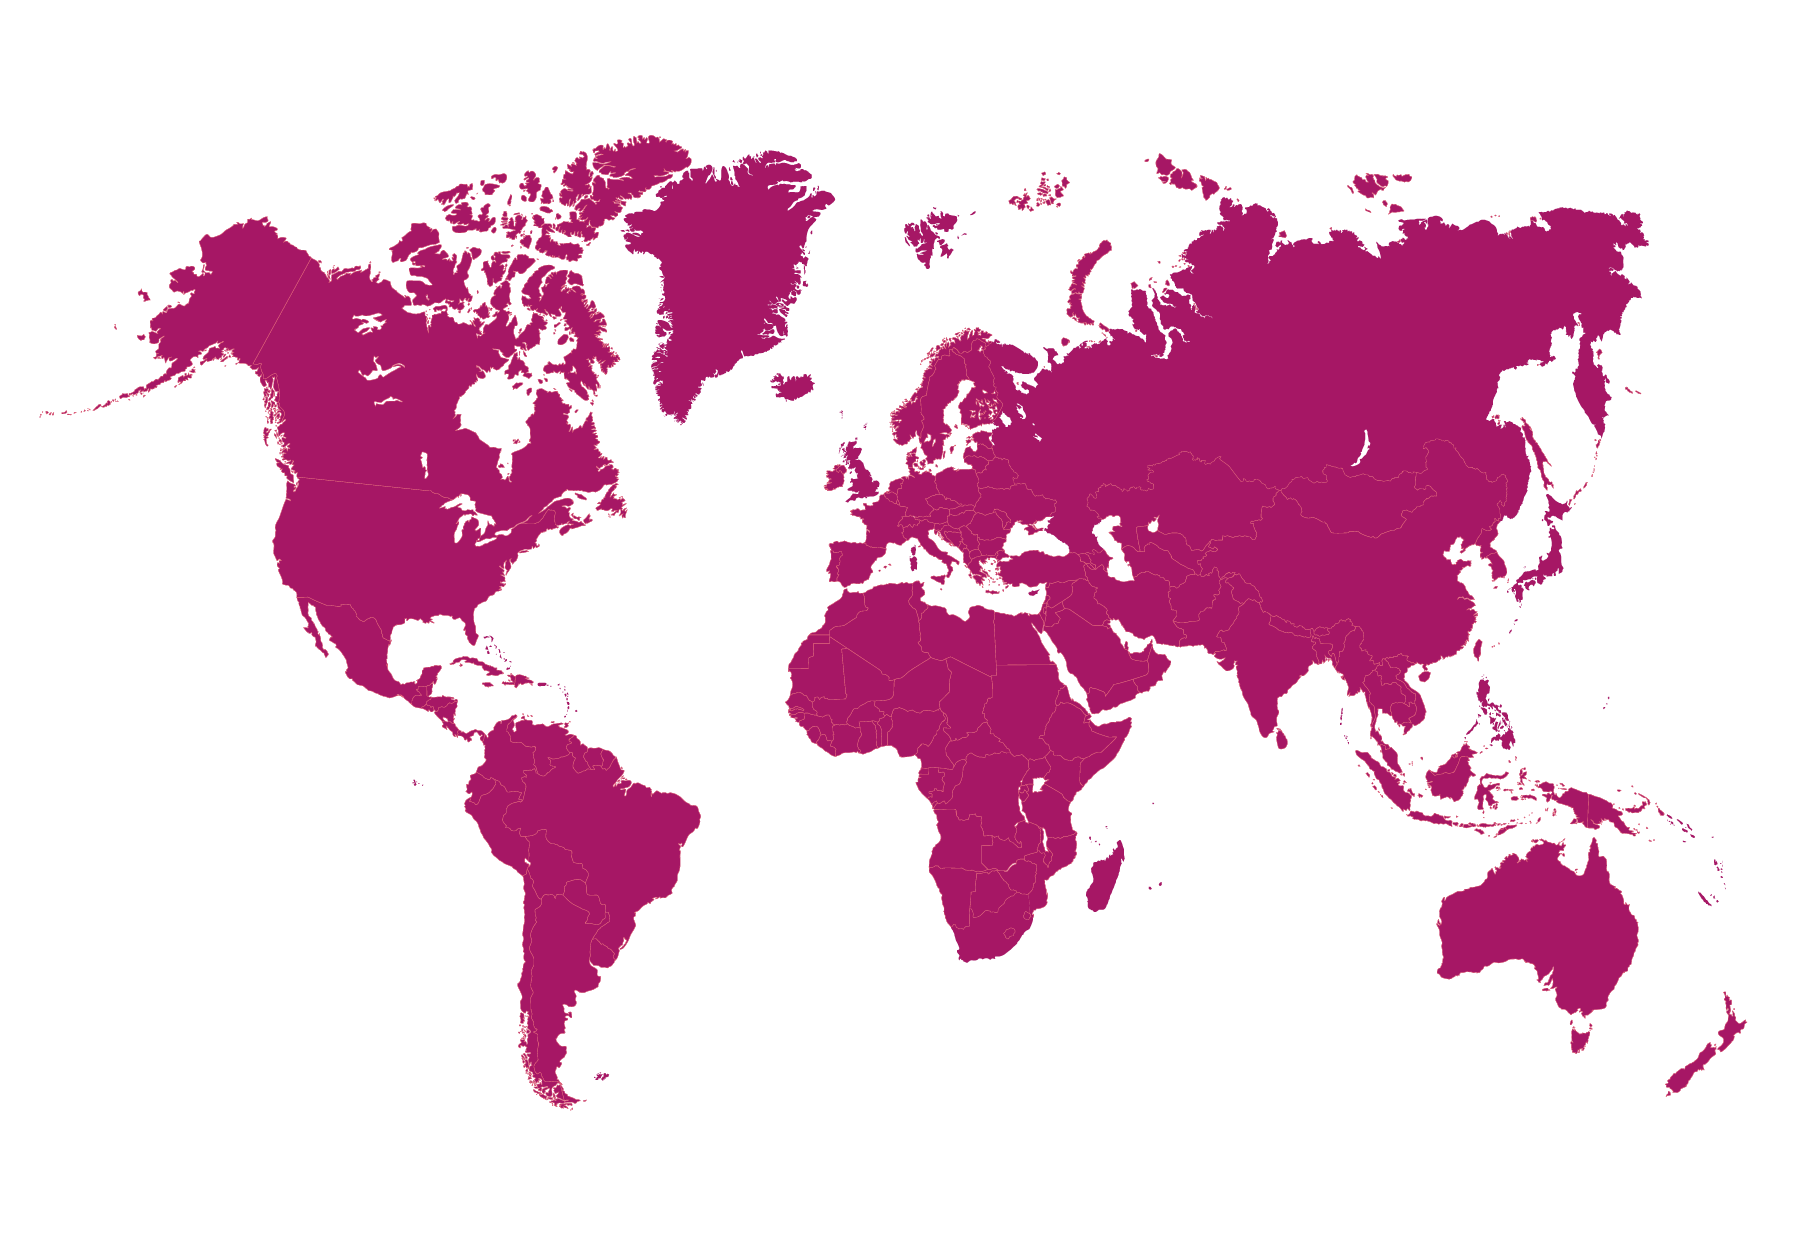
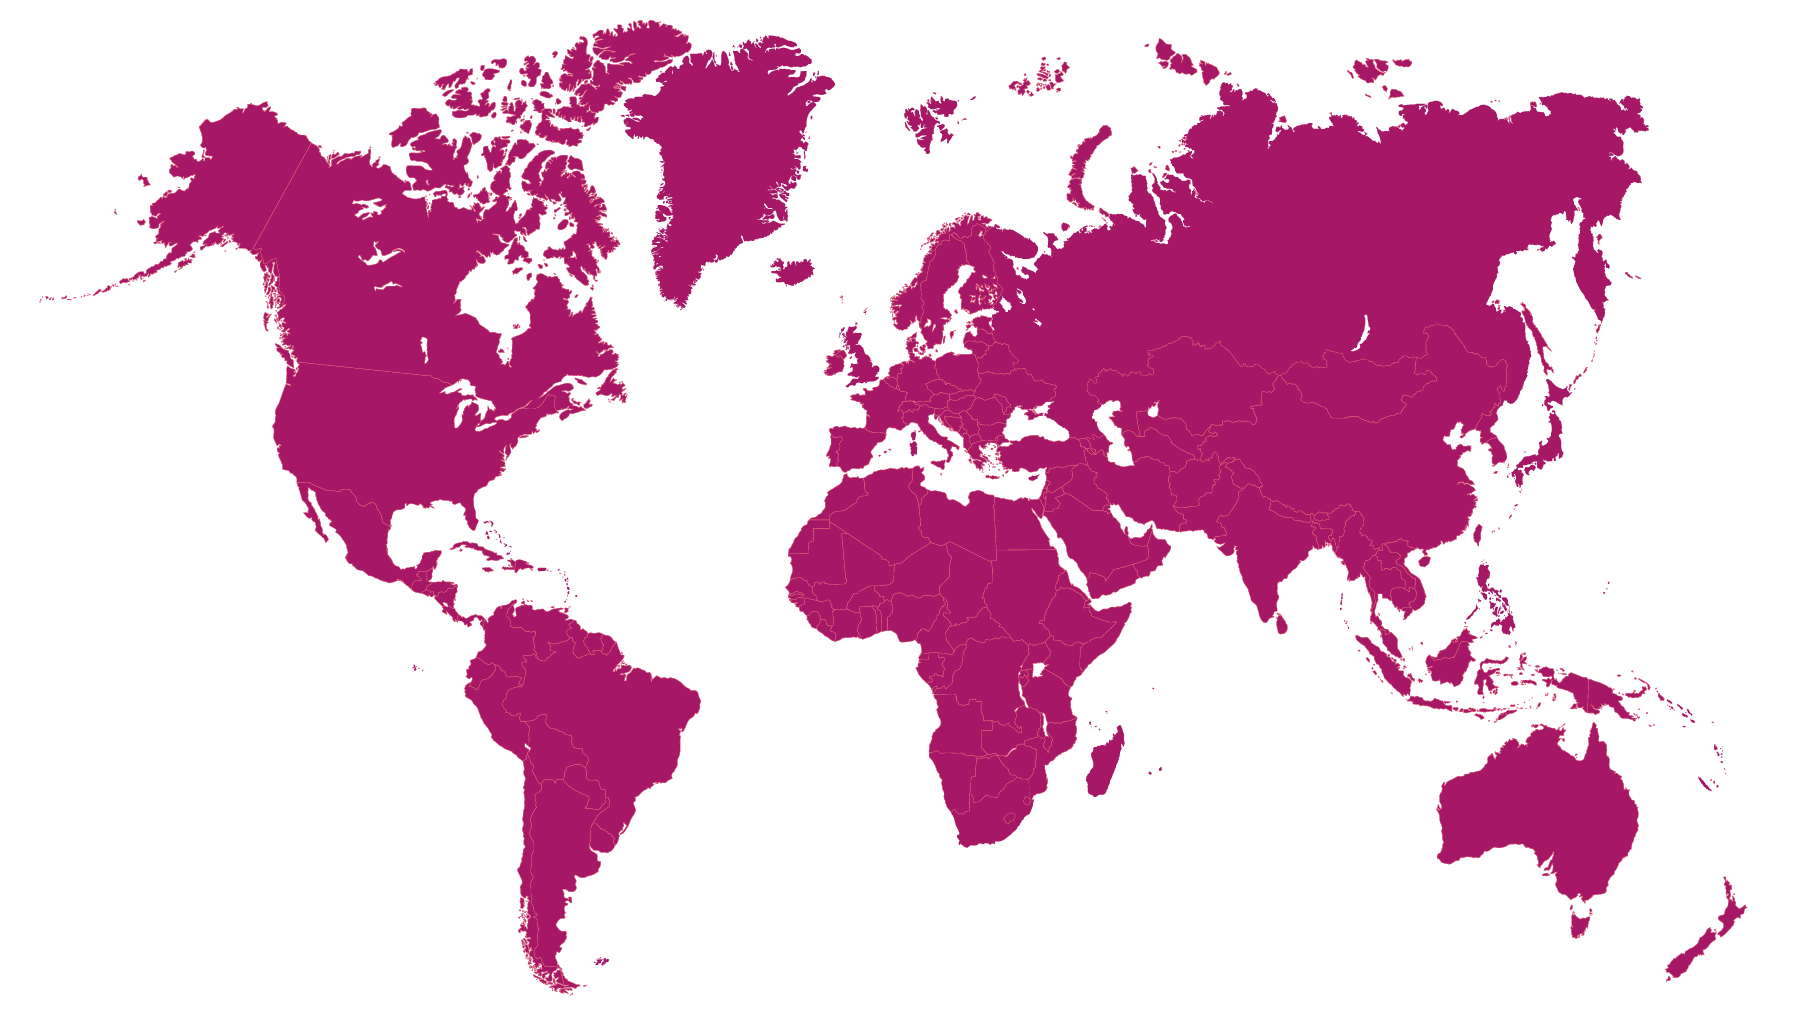
* change country profiles page to use a new layout, tiles-3-hero * optionally allow tiles-3(-hero) lists to be ordered * add numbers to items in ordered tiles-3 lists * restyle category-list items to have nicer focus/active states * add updated country profiles hero image

diff --git a/_layouts/tiles-3-hero.html b/_layouts/tiles-3-hero.html
@@ -5,23 +5,22 @@
 
 <body class="home">
 
-<div class="header-wrapper header-wrapper--border">
+<div class="header-wrapper  header-wrapper--border  hero-header hero-header--secondary">
 {% include header.html %}
 
-    <div class="wrapper">
-        <div class="grid"><!--
-            --><div class="grid__item  medium--eight-twelfths  leader">
-                <h1>{{ page.title }}</h1>
-
-                {{ page.summary }}
-            </div><!--
-        --></div>
-    </div>
-
-    <div class="wrapper">
+    <div class="wrapper  hero-header__content">
         <div class="grid"><!--
             --><div class="grid__item  medium--eight-twelfths">
-                {{ content }}
+                <div class="hero-header__title">
+                    <h1>{{ page.title }}</h1>
+                    <p class="hero-header__tagline">{{ page.subtitle }}</p>
+                </div>
+
+                {% if page.hero %}
+                    <img class="hero-header__image"
+                        src="/assets/images/hero/{{ page.hero }}"
+                        srcset="/assets/images/hero/{{ page.hero }} 1x, /assets/images/hero/{{ page.hero | replace: ".png", "-x2.png"}} 2x"/>
+                {% endif %}
             </div><!--
         --></div>
     </div>
@@ -32,10 +31,9 @@
     <div class="category-list-container">
         <!-- Start category-list-0.hbs -->
         <div class="wrapper main category-list">
-            <div class="grid">
-                <div class="grid__item medium--eight-twelfths large--seven-twelfths">
-                    {% assign navitems = page.navitems %}
-                    {% assign indexed = site.pages | where:"category", page.navitems | sort: 'index', 'first' %}
+            <div class="grid"><div class="grid__item medium--eight-twelfths large--seven-twelfths">
+                {% assign navitems = page.navitems %}
+                {% assign indexed = site.pages | where:"category", page.navitems | sort: 'index', 'first' %}
 
                     {% if page.ordered %}<ol class="category-list__list">{% else %}<ul class="category-list__list">{% endif %}
 
@@ -55,7 +53,7 @@
 
                     {% if page.ordered %}</ol>{% else %}</ul>{% endif %}
                 </div><!--
-            --></div>
+         --></div>
         </div>
         <br class="clearfix">
     </div>

diff --git a/assets/css/main.css b/assets/css/main.css
@@ -7960,6 +7960,11 @@ body.home {
   color: #A51765;
 }
 
+/* line 12, ../_scss/overrides/_override.card.scss */
+.card__content.category-item__link {
+  border-left-width: 0;
+}
+
 /* line 1, ../_scss/overrides/_override.category-item.scss */
 .category-item {
   border-left-color: #333333;
@@ -7984,10 +7989,52 @@ body.home {
 /* line 19, ../_scss/overrides/_override.category-item.scss */
 .category-item__link:active, .category-item__link:focus {
   background-color: #f0dfe8;
+  outline: 3px solid #f0dfe8;
 }
-/* line 24, ../_scss/overrides/_override.category-item.scss */
+/* line 25, ../_scss/overrides/_override.category-item.scss */
 .category-item__link p {
   transition: color 0.2s;
+}
+
+/* reordering the nesting to put category-item__link on the outside */
+/* line 33, ../_scss/overrides/_override.category-item.scss */
+.category-item {
+  border-left-width: 0;
+  color: inherit;
+  margin-bottom: 0;
+}
+
+/* line 39, ../_scss/overrides/_override.category-item.scss */
+.category-item__link {
+  border-left: 1px solid #333333;
+  margin-bottom: 40px;
+  transition: border-color 0.2s, color 0.2s;
+}
+/* line 44, ../_scss/overrides/_override.category-item.scss */
+.category-item__link:hover {
+  border-color: #F0A75A;
+}
+/* line 48, ../_scss/overrides/_override.category-item.scss */
+.category-item__link:focus {
+  color: #333333;
+}
+/* line 52, ../_scss/overrides/_override.category-item.scss */
+.category-item__link:active {
+  color: #A51765;
+}
+
+/* line 1, ../_scss/overrides/_override.category-list.scss */
+.category-list__list {
+  margin-left: 0;
+  list-style-type: none;
+  counter-reset: section;
+}
+
+/* line 7, ../_scss/overrides/_override.category-list.scss */
+ol.category-list__list li a h2:before {
+  counter-increment: section;
+  content: counter(section) ". ";
+  display: inline;
 }
 
 /*------------------------------------*\
@@ -8466,12 +8513,12 @@ body.home {
   color: #333;
 }
 
-/* line 150, ../_scss/main.scss */
+/* line 151, ../_scss/main.scss */
 .main-content > h2 {
   margin-top: 0 !important;
 }
 
-/* line 154, ../_scss/main.scss */
+/* line 155, ../_scss/main.scss */
 .main-content p + h2, .main-content ul + h2 {
   margin-top: 1.6em !important;
 }

diff --git a/_layouts/tiles-2-hero.html b/_layouts/tiles-2-hero.html
@@ -36,15 +36,15 @@
                 {% assign indexed = site.pages | where:"category", page.navitems | sort: 'index', 'first' %}
                 {% for item in indexed %}
                  --><div class="grid__item medium--six-twelfths large--four-twelfths">
-                        <article class="category-item">
-                            <a href="{{ item.url }}" class="category-item__link" data-gtm="item-0">
+                        <a href="{{ item.url }}" class="category-item__link" data-gtm="item-0">
+                            <article class="category-item">
                                 <h2 class="category-item__title">{{item.title}}</h2>
-                        
+
                                 <p class="category-item__summary">
                                     {{item.summary}}
                                 </p>
-                            </a>
-                        </article>
+                            </article>
+                        </a>
                     </div><!--
                 {% endfor %}
          --></div>

diff --git a/_layouts/tiles-2.html b/_layouts/tiles-2.html
@@ -37,15 +37,15 @@
                 {% assign indexed = site.pages | where:"category", page.navitems | sort: 'index', 'first' %}
                 {% for item in indexed %}
                  --><div class="grid__item medium--six-twelfths large--four-twelfths">
-                        <article class="category-item">
-                            <a href="{{ item.url }}" class="category-item__link" data-gtm="item-0">
+                        <a href="{{ item.url }}" class="category-item__link" data-gtm="item-0">
+                            <article class="category-item">
                                 <h2 class="category-item__title">{{item.title}}</h2>
-                        
+
                                 <p class="category-item__summary">
                                     {{item.summary}}
                                 </p>
-                            </a>
-                        </article>
+                            </article>
+                        </a>
                     </div><!--
                 {% endfor %}
          --></div>

diff --git a/assets/_scss/overrides/_override.category-item.scss b/assets/_scss/overrides/_override.category-item.scss
@@ -19,10 +19,37 @@
         &:active,
         &:focus {
             background-color: $color__magenta--tint;
+            outline: 3px solid $color__magenta--tint;
         }
 
         p {
             transition: color 0.2s;
         }
+    }
+}
+
+
+/* reordering the nesting to put category-item__link on the outside */
+.category-item {
+    border-left-width: 0;
+    color: inherit;
+    margin-bottom: 0;
+}
+
+.category-item__link {
+    border-left: 1px solid $color__grey--dark;
+    margin-bottom: 40px;
+    transition: border-color 0.2s, color 0.2s;
+
+    &:hover {
+        border-color: $color__orange;
+    }
+
+    &:focus {
+        color: $color__grey--dark;
+    }
+
+    &:active {
+        color: $color__link--primary;
     }
 }

diff --git a/assets/_scss/main.scss b/assets/_scss/main.scss
@@ -136,6 +136,7 @@ $breakpoint-has-pull:   ('medium', 'large', 'xlarge');
  */
 @import "overrides/override.card";
 @import "overrides/override.category-item";
+@import "overrides/override.category-list";
 @import "../../node_modules/@scottish-government/mygov-assets/scss/trumps/trump.header-search";
 @import "overrides/override.hero-header";
 @import "overrides/override.page-nav";

diff --git a/assets/_scss/overrides/_override.category-list.scss b/assets/_scss/overrides/_override.category-list.scss
@@ -1,0 +1,11 @@
+.category-list__list {
+    margin-left: 0;
+    list-style-type: none;
+    counter-reset: section;
+}
+
+ol.category-list__list li a h2:before {
+    counter-increment: section;
+    content: counter(section) ". ";
+    display: inline;
+}

diff --git a/assets/_scss/overrides/_override.card.scss b/assets/_scss/overrides/_override.card.scss
@@ -8,3 +8,7 @@
         color: $color__link--primary;
     }
 }
+
+.card__content.category-item__link {
+    border-left-width: 0;
+}

diff --git a/pages/country-profiles.md b/pages/country-profiles.md
@@ -1,5 +1,5 @@
 ---
-layout: tiles-2-hero
+layout: tiles-3-hero
 title:  "Country profiles"
 category: trading-nation
 summary: ""
@@ -11,4 +11,5 @@ navitems: country-profiles
 thispage: country-profiles
 permalink: /country-profiles/
 hero: CountryNavImage.png
+ordered: true
 ---
